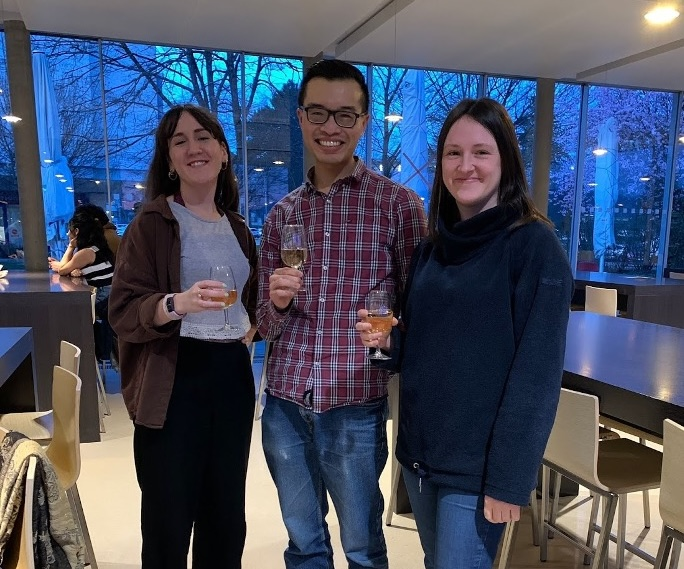
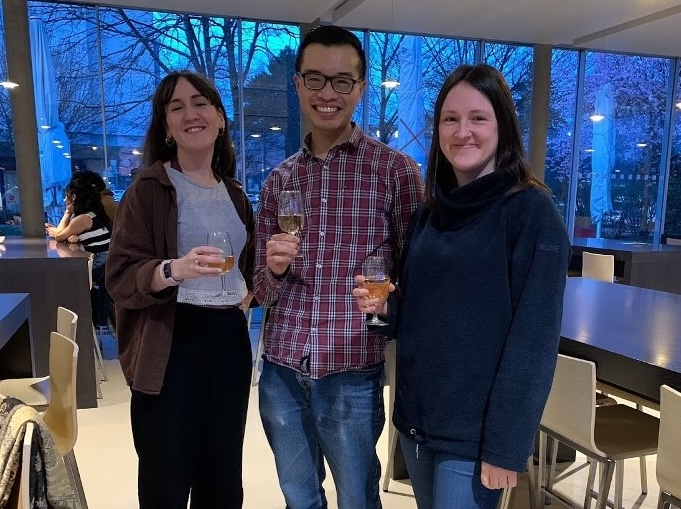
Remove SM pic, add Cam ITk pic

diff --git a/team.html b/team.html
@@ -98,15 +98,15 @@
         <div class="col-md-5">         
           <figure class="figure">
             <img src="img/tauteam.jpg" class="figure-img img-fluid" alt="Tau team">
-            <figcaption class="figure-caption">Celebrating <a href="https://arxiv.org/abs/2403.06336" target="_blank">2403.06336</a> with L. Beresford and S. Clawson (DESY)</figcaption>
+            <figcaption class="figure-caption">With Savannah Clawson and Lydia Beresford (DESY)</figcaption>
           </figure> 
         </div>  
         <div class="col-md-5">
           <figure class="figure">
-            <img src="img/sm-ljubljana.jpg" class="figure-img img-fluid" alt="SM group">
-            <figcaption class="figure-caption">ATLAS <a href="https://twiki.cern.ch/twiki/bin/view/AtlasPublic/StandardModelPublicResults" target="_blank">Standard Model group workshop</a> at Ljubljana</figcaption>
+            <img src="img/cam-itk.jpg" class="figure-img img-fluid" alt="Cam ITk">
+            <figcaption class="figure-caption">Cambridge ITk team lunch led by Bart Hommels</figcaption>
           </figure>          
-        </div>  
+        </div> 
       </div>
       <p>Our group enjoys a long-standing collaboration with the DESY group led by <a href="https://atlas.desy.de/external_grants/lydia_beresford_yig/" target="blank">Lydia Beresford</a> with Savannah Clawson.
         Our current analysis efforts also collaborate with the groups of Freiburg (<a href="https://uni-freiburg.de/fsw/valerie-lang-en/" target="_blank">Valerie Lang</a>), Sheffield (<a href="https://www.sheffield.ac.uk/mps/people/all-academic-staff/kristin-lohwasser" target="_blank">Kristin Lohwasser</a>), and <a href="https://www.physics.lbl.gov/directory/atlas/" target="_blank">Berkeley Lab</a> (Angira Rastogi, Simone Pagan Griso).</p>

diff --git a/join.html b/join.html
@@ -78,13 +78,13 @@
       <div class="col-md-5">
         <figure class="figure">
           <img src="img/fnal-adr.jpg" class="figure-img img-fluid" alt="FNAL ADR">
-          <figcaption class="figure-caption">With K. Dona (Chicago) at Fermilab cleanroom for BREAD</figcaption>
+          <figcaption class="figure-caption">With Kristin Dona (Chicago PhD student) at Fermilab cleanroom</figcaption>
         </figure>          
       </div> 
       <div class="col-md-5">
         <figure class="figure">
-          <img src="img/cam-itk.jpg" class="figure-img img-fluid" alt="Cam ITk">
-          <figcaption class="figure-caption">Cambridge ITk cleanroom team lunch led by B. Hommels</figcaption>
+          <img src="img/mullin_cam_itk.jpg" class="figure-img img-fluid" alt="Cam ITk">
+          <figcaption class="figure-caption">With Anna Mullin (Cambridge PhD student) in Cavendish lab</figcaption>
         </figure>          
       </div> 
     </div>
